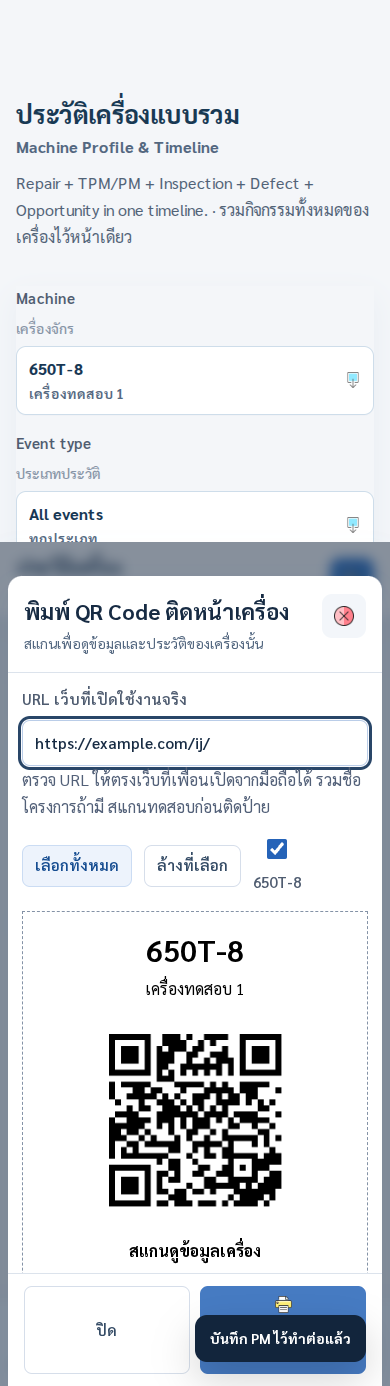
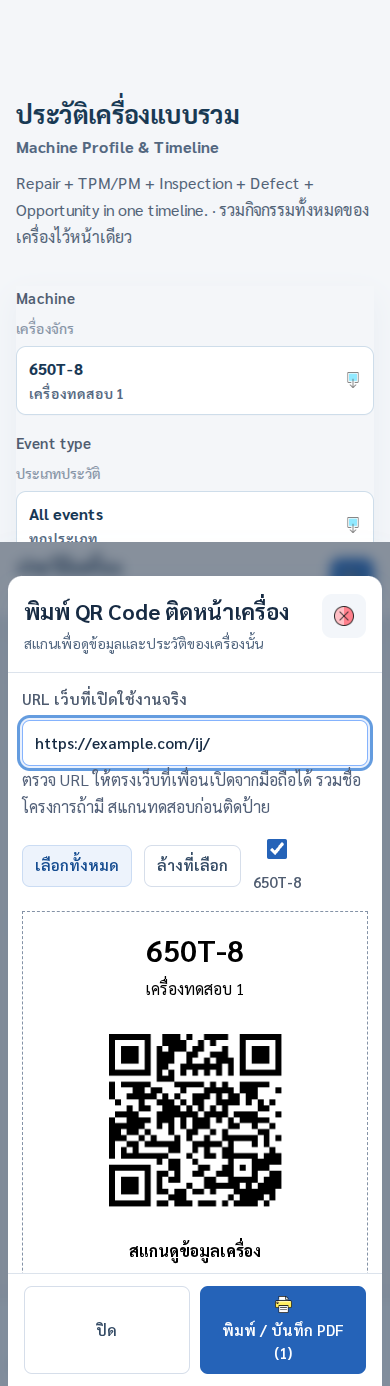
D

Changed region(s): [[0.0308, 0.4964, 0.9538, 0.5584], [0.4923, 0.9307, 0.9538, 0.9928]]

diff --git a/src/pages/FollowUp.jsx b/src/pages/FollowUp.jsx
@@ -1,60 +1,29 @@
 import React,{useEffect,useMemo,useState} from 'react'
-import { PackageOpen, CalendarClock, Wrench, Camera, UserRound } from '../icons.jsx'
-import { Button, Badge, Empty, PageIntro, SelectMenu } from '../components/UI.jsx'
+import {Search,PackageOpen,Wrench,CalendarClock,UserRound} from '../icons.jsx'
+import {Button,Badge,Empty,PageIntro,SelectMenu} from '../components/UI.jsx'
 import FollowUpModal from '../components/FollowUpModal.jsx'
 import {decodeActionResult} from '../lib/actionResult.js'
-import { fmtDate, rolePlanner, statusLabel } from '../lib/utils.js'
-
+import {FOLLOWUP_STATUS,followUpNext,isFollowUpOverdue} from '../lib/followUpView.js'
+import {fmtDate,isoDate,rolePlanner} from '../lib/utils.js'
 export default function FollowUp({profile,findings,technicians,onSaveAction,onCreateTPM,initialFinding,onConsumedInitial}){
-  const [status,setStatus]=useState('active')
-  const [priority,setPriority]=useState('')
-  const [selected,setSelected]=useState(null)
-
-  useEffect(()=>{
-    if(!initialFinding)return
-    const found=findings.find(f=>f.id===initialFinding)
-    if(found)setSelected(found)
-    onConsumedInitial?.()
-  },[initialFinding,findings])
-
-  const rows=useMemo(()=>findings
-    .filter(f=>status==='all'||(status==='active'?f.status!=='closed':f.status===status))
-    .filter(f=>!priority||f.priority===priority)
-    .sort((a,b)=>{
-      const rank={A:0,B:1,C:2};const pa=rank[a.priority]??9,pb=rank[b.priority]??9
-      if(pa!==pb)return pa-pb
-      const ta=a.target_date?new Date(a.target_date).getTime():Infinity,tb=b.target_date?new Date(b.target_date).getTime():Infinity
-      if(ta!==tb)return ta-tb
-      return new Date(b.created_at)-new Date(a.created_at)
-    }),[findings,status,priority])
-
-  return <>
-    <PageIntro title="Follow-up Action Tracker" th="ติดตามการแก้ไข" description="Follow-up is created from an existing defect. Assign owner, action, target date, spare/machine-stop requirements and verify before closing. · ใช้ Defect ที่พบแล้วมาวางแผนและติดตามจนยืนยันผล"><div className="followup-page-note"><b>Defect → Action → Verify → Close</b><small>ปัญหาที่พบ → วางแผนแก้ไข → ยืนยันผล → ปิดงาน</small></div></PageIntro>
-
-    <section className="compact-filter-bar"><SelectMenu value={status} onChange={setStatus} options={[{value:'active',label:'Active follow-up',sub:'งานที่ยังไม่ปิด'},{value:'all',label:'All',sub:'ทั้งหมด'},{value:'open',label:'Action Pending',sub:'ยังไม่ได้วางแผน'},{value:'waiting_spare',label:'Waiting Spare',sub:'รออะไหล่'},{value:'waiting_machine_stop',label:'Waiting Stop',sub:'รอหยุดเครื่อง'},{value:'in_progress',label:'In Progress',sub:'กำลังดำเนินการ'},{value:'verification',label:'Verification',sub:'รอยืนยันผล'},{value:'closed',label:'Closed',sub:'ปิดแล้ว'}]}/><SelectMenu value={priority} onChange={setPriority} options={[{value:'',label:'All priority',sub:'ทุกระดับ'},{value:'A',label:'A — Critical',sub:'วิกฤต / เร่งด่วน'},{value:'B',label:'B — Important',sub:'สำคัญ / ควรแก้เร็ว'},{value:'C',label:'C — Routine',sub:'ทั่วไป / วางแผนทำ'}]}/></section>
-
-    <div className="follow-grid action-tracker-grid">{rows.length?rows.map(f=>{
-      const evidence=decodeActionResult(f.verification_note||'')
-      const owner=(technicians||[]).find(t=>t.id===f.owner_profile_id)
-      const photos=f.attachments||[]
-      const actionPending=f.status==='open'&&!f.temporary_action&&!f.permanent_action
-      return <article className={`follow-card-pro follow-action-card priority-${f.priority}`} key={f.id}>
-        <header><div className="machine-code">{f.machines?.machine_no||'-'}</div><div className="defect-badges"><Badge tone={f.priority==='A'?'red':f.priority==='B'?'amber':'neutral'}>P-{f.priority}</Badge><Badge tone={f.status==='closed'?'green':f.status==='waiting_spare'?'amber':f.status==='verification'?'purple':'blue'}>{actionPending?'Action Pending · รอวางแผน':statusLabel(f.status)}</Badge></div></header>
-        <div className="follow-defect-title"><span>DEFECT / จุดผิดปกติ</span><h3>{f.finding}</h3>{f.risk&&<p>{f.risk}</p>}</div>
-        {photos.length>0&&<div className="follow-photo-strip"><Camera size={14}/>{photos.slice(0,3).map(p=><a key={p.id} href={p.signed_url||'#'} target="_blank" rel="noreferrer"><img src={p.signed_url} alt={p.file_name||'Defect evidence'}/></a>)}<small>{photos.length} photo(s)</small></div>}
-        <div className="follow-meta follow-meta-v12">
-          <span><UserRound size={15}/>Owner <b>{owner?.full_name||'Not assigned · ยังไม่มอบหมาย'}</b></span>
-          <span><CalendarClock size={15}/>Target <b>{fmtDate(f.target_date)}</b></span>
-          <span><PackageOpen size={15}/>Spare <b>{f.spare_required?'Required · ต้องใช้':'No · ไม่ใช้'}</b></span>
-          <span><Wrench size={15}/>Stop <b>{f.need_machine_stop?'Required · ต้องหยุด':'No · ไม่ต้องหยุด'}</b></span>
-        </div>
-        {(f.temporary_action||f.permanent_action)&&<div className="follow-action-summary">{f.temporary_action&&<div><span>Temporary / ชั่วคราว</span><p>{f.temporary_action}</p></div>}{f.permanent_action&&<div><span>Planned action / งานที่จะทำ</span><p>{f.permanent_action}</p></div>}</div>}
-        {evidence.work_result&&<div className="verification-box"><b>สิ่งที่ทำจริง / Work result</b><p>{evidence.work_result}</p></div>}
-        {evidence.verification_note&&<div className="verification-box"><b>Verification / ผลยืนยัน</b><p>{evidence.verification_note}</p></div>}
-        {rolePlanner(profile.role)&&<footer><Button size="sm" icon={Wrench} onClick={()=>setSelected(f)}>{actionPending?'Plan Action':'Update Action'} <small>{actionPending?'วางแผนแก้ไข':'อัปเดตงาน'}</small></Button>{f.status!=='closed'&&<Button size="sm" variant="ghost" onClick={()=>onCreateTPM(f)}>Create TPM <small>นำเข้าแผน</small></Button>}</footer>}
-      </article>
-    }):<Empty title="No follow-up" text="ไม่มีงานติดตามตามเงื่อนไข"/>}</div>
-
-    <FollowUpModal open={!!selected} onClose={()=>setSelected(null)} finding={selected} technicians={technicians} onSave={onSaveAction}/>
-  </>
+ const [status,setStatus]=useState('active'),[priority,setPriority]=useState(''),[q,setQ]=useState(''),[selected,setSelected]=useState(null)
+ const today=isoDate()
+ useEffect(()=>{if(!initialFinding)return;const found=findings.find(f=>f.id===initialFinding);if(found)setSelected(found);onConsumedInitial?.()},[initialFinding,findings])
+ const ownerName=f=>(technicians||[]).find(t=>t.id===f.owner_profile_id)?.full_name||'ยังไม่มอบหมาย'
+ const rows=useMemo(()=>findings.filter(f=>status==='all'||(status==='active'?f.status!=='closed':status==='overdue'?isFollowUpOverdue(f,today):f.status===status)).filter(f=>!priority||f.priority===priority).filter(f=>!q||`${f.machines?.machine_no||''} ${f.finding} ${ownerName(f)} ${f.permanent_action||''}`.toLowerCase().includes(q.trim().toLowerCase())).sort((a,b)=>Number(isFollowUpOverdue(b,today))-Number(isFollowUpOverdue(a,today))||({A:0,B:1,C:2}[a.priority]??9)-({A:0,B:1,C:2}[b.priority]??9)||(a.target_date||'9999').localeCompare(b.target_date||'9999')),[findings,status,priority,q,technicians,today])
+ const stats=[{id:'active',label:'งานค้าง',count:findings.filter(f=>f.status!=='closed').length},{id:'overdue',label:'เกินกำหนด',count:findings.filter(f=>isFollowUpOverdue(f,today)).length},{id:'verification',label:'รอตรวจยืนยัน',count:findings.filter(f=>f.status==='verification').length},{id:'closed',label:'ปิดงานแล้ว',count:findings.filter(f=>f.status==='closed').length}]
+ return <><PageIntro title="Follow-up" th="ติดตามการแก้ไข" description="เลือกปัญหา → วางแผนแก้ไข → บันทึกผลจริง → ตรวจยืนยันและปิดงาน"/>
+ <section className="followup-overview" aria-label="สรุปงานติดตาม">{stats.map(s=><button key={s.id} className={`followup-count ${status===s.id?'active':''} ${s.id==='overdue'&&s.count?'urgent':''}`} aria-pressed={status===s.id} onClick={()=>setStatus(s.id)}><span>{s.label}</span><strong>{s.count}</strong><small>กดดูรายการ</small></button>)}</section>
+ <section className="followup-filters"><div className="search-box"><Search size={18}/><input aria-label="ค้นหางานติดตาม" value={q} onChange={e=>setQ(e.target.value)} placeholder="ค้นหาเครื่อง ปัญหา หรือผู้รับผิดชอบ"/></div><label>สถานะ<SelectMenu value={status} onChange={setStatus} options={[{value:'active',label:'งานที่ยังไม่ปิด'},{value:'all',label:'ทุกงาน'},{value:'overdue',label:'เกินกำหนด'},...Object.entries(FOLLOWUP_STATUS).map(([value,label])=>({value,label}))]}/></label><label>ความสำคัญ<SelectMenu value={priority} onChange={setPriority} options={[{value:'',label:'ทุกระดับ'},{value:'A',label:'A · เร่งด่วน'},{value:'B',label:'B · สำคัญ'},{value:'C',label:'C · ทั่วไป'}]}/></label></section>
+ <div className="followup-list-heading"><span>แสดง {rows.length} งาน</span>{(q||priority||status!=='active')&&<Button size="sm" variant="ghost" onClick={()=>{setQ('');setPriority('');setStatus('active')}}>ล้างตัวกรอง</Button>}</div>
+ <div className="follow-grid action-tracker-grid">{rows.length?rows.map(f=>{const evidence=decodeActionResult(f.verification_note||''),closed=f.status==='closed',overdue=isFollowUpOverdue(f,today),photos=f.attachments||[];return <article className={`follow-card-pro follow-action-card followup-compact ${closed?'is-closed':''} ${overdue?'is-overdue':''}`} key={f.id}>
+ <header><span className="machine-code">{f.machines?.machine_no||'ไม่ระบุเครื่อง'}</span><div className="defect-badges"><Badge tone={f.priority==='A'?'red':f.priority==='B'?'amber':'neutral'}>{f.priority||'—'}</Badge><Badge tone={closed?'green':f.status==='verification'?'purple':String(f.status).startsWith('waiting')?'amber':'blue'}>{FOLLOWUP_STATUS[f.status]||f.status}</Badge></div></header>
+ <div className="followup-problem"><h3>{f.finding}</h3>{f.risk&&<p>{f.risk}</p>}</div>
+ <div className="followup-owner-date"><div><UserRound size={16}/><span>ผู้รับผิดชอบ<b>{ownerName(f)}</b></span></div><div className={overdue?'overdue-date':''}><CalendarClock size={16}/><span>{closed?'วันที่กำหนดเดิม':'กำหนดเสร็จ'}<b>{f.target_date?fmtDate(f.target_date):'ยังไม่กำหนด'}{overdue&&<em>เกินกำหนด</em>}</b></span></div></div>
+ <div className="followup-next"><span>{closed?'ผลการติดตาม':'ทำอะไรต่อ'}</span><b>{followUpNext(f)}</b></div>
+ {(f.spare_required||f.need_machine_stop)&&<div className="followup-requirements">{f.spare_required&&<span><PackageOpen size={15}/>ต้องใช้อะไหล่</span>}{f.need_machine_stop&&<span><Wrench size={15}/>ต้องหยุดเครื่อง</span>}</div>}
+ <details className="followup-details"><summary>รายละเอียดแผนและผล{photos.length>0?` · ${photos.length} รูป`:''}</summary><dl>{f.finding?.length>120&&<><dt>ปัญหาที่พบ (ข้อความเต็ม)</dt><dd>{f.finding}</dd></>}{f.permanent_action&&<><dt>แผนแก้ไข</dt><dd>{f.permanent_action}</dd></>}{f.temporary_action&&<><dt>ควบคุมปัญหาชั่วคราว</dt><dd>{f.temporary_action}</dd></>}{evidence.work_result&&<><dt>สิ่งที่ทำจริง</dt><dd>{evidence.work_result}</dd></>}{evidence.verification_note&&<><dt>ผลตรวจยืนยัน</dt><dd>{evidence.verification_note}</dd></>}{!f.permanent_action&&!evidence.work_result&&<dd>ยังไม่มีแผนหรือผลดำเนินการ</dd>}</dl>{photos.length>0&&<div className="follow-photo-strip">{photos.map(p=><a key={p.id} href={p.signed_url||'#'} target="_blank" rel="noreferrer"><img src={p.signed_url} alt={p.file_name||'รูปจุดผิดปกติ'}/></a>)}</div>}</details>
+ {rolePlanner(profile.role)&&<footer><Button icon={Wrench} variant={closed?'soft':'primary'} onClick={()=>setSelected(f)}>{closed?'ดูรายละเอียด':f.status==='open'?'วางแผนแก้ไข':f.status==='verification'?'ตรวจยืนยัน / ปิดงาน':'บันทึกความคืบหน้า'}</Button>{!closed&&<Button variant="ghost" onClick={()=>onCreateTPM(f)}>นำเข้าแผน TPM</Button>}</footer>}
+ </article>}):<Empty title="ไม่มีงานตามตัวกรองนี้" text="ลองค้นหาใหม่ หรือเลือกทุกงานเพื่อดูประวัติที่ปิดแล้ว"/>}</div>
+ <FollowUpModal open={!!selected} onClose={()=>setSelected(null)} finding={selected} technicians={technicians} onSave={onSaveAction}/></>
 }

diff --git a/src/components/FollowUpModal.jsx b/src/components/FollowUpModal.jsx
@@ -36,35 +36,22 @@ export default function FollowUpModal({open,onClose,finding,technicians,onSave})
 
   if(!finding)return null
   const photos=finding.attachments||[]
-  return <Modal open={open} busy={saving} onClose={onClose} wide eyebrow="ACTION TRACKER" title="Follow-up Action" subtitle="วางแผนและติดตามการแก้ไข" footer={<><Button disabled={saving} variant="ghost" onClick={onClose}>Cancel · ยกเลิก</Button><Button loading={saving} icon={CheckCircle2} onClick={submit}>Save Action <small>บันทึกงานติดตาม</small></Button></>}>
-    <FormError message={error}/>
-    <div className="workflow-help">1. กำหนดวิธีแก้ไขและผู้รับผิดชอบ → 2. บันทึกสิ่งที่ทำจริง → 3. ตรวจยืนยันและปิดงาน<br/>เลือกสถานะอย่างเดียวไม่ได้แปลว่าแก้ปัญหาแล้ว</div>
-    <section className={`follow-source-card priority-${finding.priority||'B'}`}>
-      <div className="follow-source-top"><span className="machine-code">{finding.machines?.machine_no||'-'}</span><span className={`priority priority-${finding.priority||'B'}`}>P-{finding.priority||'B'}</span></div>
-      <h3>{finding.finding}</h3>
-      {finding.risk&&<p>{finding.risk}</p>}
-      {photos.length>0&&<div className="defect-photo-gallery compact">{photos.slice(0,4).map(p=><a key={p.id} href={p.signed_url||'#'} target="_blank" rel="noreferrer"><img src={p.signed_url} alt={p.file_name||'Defect evidence'}/></a>)}</div>}
-    </section>
-
+  return <Modal open={open} busy={saving} onClose={onClose} wide title={finding.status==='closed'?'รายละเอียดงานที่ปิดแล้ว':'อัปเดตงานติดตาม'} subtitle={finding.machines?.machine_no||'เครื่องจักร'} footer={<><Button disabled={saving} variant="ghost" onClick={onClose}>ยกเลิก</Button><Button loading={saving} icon={CheckCircle2} onClick={submit}>{form.status==='closed'?'ยืนยันและปิดงาน':'บันทึกความคืบหน้า'}</Button></>}>
+    <div className="followup-editor"><FormError message={error}/>
+    <section className="followup-source"><span className="machine-code">{finding.machines?.machine_no||'-'}</span><h3>{finding.finding}</h3>{finding.finding?.length>120&&<details><summary>อ่านปัญหาเต็ม</summary><p>{finding.finding}</p></details>}{finding.risk&&<p>{finding.risk}</p>}{photos.length>0&&<details><summary>ดูรูปหลักฐาน ({photos.length})</summary><div className="defect-photo-gallery compact">{photos.map(p=><a key={p.id} href={p.signed_url||'#'} target="_blank" rel="noreferrer"><img src={p.signed_url} alt={p.file_name||'รูปหลักฐาน'}/></a>)}</div></details>}</section>
+    <section className="followup-editor-section"><div className="followup-section-title"><span>1</span><div><h4>วางแผนแก้ไข</h4><p>ระบุคนรับผิดชอบ สิ่งที่จะทำ และวันกำหนด</p></div></div>
     <div className="form-grid follow-action-form">
-      <label>Status <small>สถานะงานติดตาม</small><SelectMenu value={form.status} onChange={v=>setForm({...form,status:v,spare_required:v==='waiting_spare'?true:form.spare_required,need_machine_stop:v==='waiting_machine_stop'?true:form.need_machine_stop})} options={[
-        {value:'open',label:'Action Pending',sub:'ยังไม่ได้วางแผนแก้ไข'},
-        {value:'waiting_spare',label:'Waiting Spare',sub:'รออะไหล่'},
-        {value:'waiting_machine_stop',label:'Waiting Machine Stop',sub:'รอหยุดเครื่อง'},
-        {value:'in_progress',label:'In Progress',sub:'กำลังดำเนินการ'},
-        {value:'verification',label:'Verification',sub:'รอยืนยันผลหลังแก้ไข'},
-        {value:'closed',label:'Closed',sub:'ยืนยันผลและปิดงาน'}
+      <label>สถานะงาน<SelectMenu value={form.status} onChange={v=>setForm({...form,status:v,spare_required:v==='waiting_spare'?true:form.spare_required,need_machine_stop:v==='waiting_machine_stop'?true:form.need_machine_stop})} options={[
+        {value:'open',label:'รอวางแผน'},{value:'waiting_spare',label:'รออะไหล่'},{value:'waiting_machine_stop',label:'รอหยุดเครื่อง'},{value:'in_progress',label:'กำลังแก้ไข'},{value:'verification',label:'รอตรวจยืนยัน'},{value:'closed',label:'ยืนยันผลและปิดงาน'}
       ]}/></label>
-      <label>Owner <small>ผู้รับผิดชอบ</small><SelectMenu searchable value={form.owner_profile_id} onChange={v=>setForm({...form,owner_profile_id:v})} options={[{value:'',label:'Not assigned',sub:'ยังไม่มอบหมาย'},...(technicians||[]).map(t=>({value:t.id,label:t.full_name||t.employee_code,sub:`${t.employee_code||'-'} · ${t.role||'Maintenance'}`}))]}/></label>
-      <label className="span-2">Temporary Action <small>การแก้ไขชั่วคราว / Containment</small><textarea rows="3" value={form.temporary_action} onChange={e=>setForm({...form,temporary_action:e.target.value})} placeholder="Immediate action to control risk / วิธีควบคุมปัญหาชั่วคราว"/></label>
-      <label className="span-2">Planned Action <small>วิธีแก้ไข / งานที่จะทำ</small><textarea rows="3" value={form.permanent_action} onChange={e=>setForm({...form,permanent_action:e.target.value})} placeholder="Permanent corrective action / วิธีแก้ไขถาวร"/></label>
-      <label className="span-2">Work Result <small>สิ่งที่ทำจริง / ผลดำเนินการ</small><textarea rows="3" value={form.work_result||''} onChange={e=>setForm({...form,work_result:e.target.value})} placeholder="ทำอะไร เมื่อไหร่ ผลหลังทำเป็นอย่างไร (กรอกเมื่อได้ทำงานจริงแล้ว)"/></label>
-      <label>Target Date <small>วันที่เป้าหมาย</small><input type="date" value={form.target_date} onChange={e=>setForm({...form,target_date:e.target.value})}/></label>
-      <div className="follow-check-grid">
-        <label className="check-card compact-check"><input type="checkbox" checked={form.spare_required} onChange={e=>setForm({...form,spare_required:e.target.checked})}/><span><PackageOpen size={17}/><b>Spare required</b><small>ต้องใช้อะไหล่</small></span></label>
-        <label className="check-card compact-check"><input type="checkbox" checked={form.need_machine_stop} onChange={e=>setForm({...form,need_machine_stop:e.target.checked})}/><span><Wrench size={17}/><b>Machine stop</b><small>ต้องหยุดเครื่อง</small></span></label>
-      </div>
-      <label className="span-2">Verification Note <small>ผลตรวจยืนยันหลังแก้ไข</small><textarea rows="3" value={form.verification_note} onChange={e=>setForm({...form,verification_note:e.target.value})} placeholder="Confirm the defect is resolved / ยืนยันว่าปัญหาได้รับการแก้ไขแล้ว"/></label>
+      <label>ผู้รับผิดชอบ<SelectMenu searchable value={form.owner_profile_id} onChange={v=>setForm({...form,owner_profile_id:v})} options={[{value:'',label:'ยังไม่มอบหมาย'},...(technicians||[]).map(t=>({value:t.id,label:t.full_name||t.employee_code,sub:t.employee_code||''}))]}/></label>
+      <label className="span-2">งานที่จะทำ<textarea rows="2" value={form.permanent_action} onChange={e=>setForm({...form,permanent_action:e.target.value})} placeholder="เช่น เปลี่ยนสายลมที่รั่ว แล้วตรวจข้อต่อ"/></label>
+      <label>กำหนดเสร็จ<input type="date" value={form.target_date} onChange={e=>setForm({...form,target_date:e.target.value})}/></label>
+      <div className="followup-checkboxes"><label><input type="checkbox" checked={form.spare_required} onChange={e=>setForm({...form,spare_required:e.target.checked})}/>ต้องใช้อะไหล่</label><label><input type="checkbox" checked={form.need_machine_stop} onChange={e=>setForm({...form,need_machine_stop:e.target.checked})}/>ต้องหยุดเครื่อง</label></div>
+      <details className="span-2 followup-optional" open={!!form.temporary_action||undefined}><summary>การควบคุมปัญหาชั่วคราว (ถ้ามี)</summary><label>วิธีควบคุมชั่วคราว<textarea rows="2" value={form.temporary_action} onChange={e=>setForm({...form,temporary_action:e.target.value})} placeholder="บันทึกเฉพาะเมื่อมีวิธีควบคุมระหว่างรอแก้ไข"/></label></details>
+    </div></section>
+    <section className="followup-editor-section"><div className="followup-section-title"><span>2</span><div><h4>บันทึกสิ่งที่ทำจริง</h4><p>กรอกหลังเข้าทำงานแล้ว เพื่อแยกผลจริงออกจากแผน</p></div></div><label>สิ่งที่ทำจริง / ผลหลังทำ<textarea rows="3" value={form.work_result||''} onChange={e=>setForm({...form,work_result:e.target.value})} placeholder="ทำอะไร เมื่อไหร่ และได้ผลอย่างไร"/></label></section>
+    <section className="followup-editor-section"><div className="followup-section-title"><span>3</span><div><h4>ตรวจยืนยันและปิดงาน</h4><p>ปิดงานได้เมื่อมีผู้รับผิดชอบ ผลงานจริง และผลตรวจยืนยัน</p></div></div><label>ผลตรวจยืนยัน<textarea rows="2" value={form.verification_note} onChange={e=>setForm({...form,verification_note:e.target.value})} placeholder="เช่น ทดลองเดินเครื่องแล้ว ไม่พบลมรั่วซ้ำ"/></label>{form.status==='closed'&&<div className="followup-close-note">เมื่อบันทึก งานนี้จะย้ายไปหมวด “ปิดงานแล้ว”</div>}</section>
     </div>
   </Modal>
 }

diff --git a/src/design-system.css b/src/design-system.css
@@ -123,3 +123,13 @@ button:focus-visible,a:focus-visible,input:focus-visible,textarea:focus-visible,
 @media print{body:has(.machine-qr-sheet)>#root{display:none!important}body:has(.machine-qr-sheet) .modal-backdrop{position:static!important;display:block!important;padding:0!important;background:white!important}body:has(.machine-qr-sheet) .modal-card{width:100%!important;max-width:none!important;max-height:none!important;box-shadow:none!important;border:0!important;margin:0!important}body:has(.machine-qr-sheet) .modal-header,body:has(.machine-qr-sheet) .modal-footer,body:has(.machine-qr-sheet) .qr-settings{display:none!important}body:has(.machine-qr-sheet) .modal-body{padding:0!important;overflow:visible!important;max-height:none!important}body:has(.machine-qr-sheet) .machine-qr-sheet{display:grid!important;grid-template-columns:repeat(2,minmax(0,1fr));gap:8mm}.machine-qr-label{padding:6mm;break-inside:avoid}.machine-qr-label img{width:45mm;height:45mm}.machine-qr-label a{text-decoration:none}}
 
 @media print{body:has(.machine-qr-sheet) .modal-fields{min-height:0!important}body:has(.machine-qr-sheet) .machine-qr-label{break-inside:avoid-page}}
+/* v13.8 follow-up: summary first, evidence on demand. */
+.followup-overview{display:grid;grid-template-columns:repeat(4,minmax(0,1fr));gap:14px;margin:0 0 20px}.followup-count{font:inherit;display:grid;gap:8px;text-align:left;cursor:pointer;padding:18px 20px;background:#fff;color:#526078;border:1px solid var(--line);border-radius:12px}.followup-count strong{font-size:30px;color:#18374f;line-height:1.2}.followup-count small{font-size:14px}.followup-count.active{border-color:#347fd1;box-shadow:0 0 0 2px #e4f0ff}.followup-count.urgent strong{color:#b42318}.followup-filters{display:grid;grid-template-columns:minmax(200px,1.5fr) minmax(160px,1fr) minmax(160px,1fr);gap:16px;align-items:end;background:#fff;border:1px solid var(--line);border-radius:12px;padding:18px}.followup-filters label{display:grid;gap:8px;font-size:14px;font-weight:600;color:#526078}.followup-filters .search-box{min-width:0;min-height:48px}.followup-filters input{min-width:0;width:100%}.followup-list-heading{display:flex;justify-content:space-between;align-items:center;gap:12px;margin:16px 0;font-size:14px;color:#526078}.action-tracker-grid{align-items:start;gap:20px}.followup-compact{border-left:1px solid var(--line)!important;padding:22px;overflow-wrap:anywhere}.followup-compact.is-overdue{border-top:3px solid #de635a}.followup-compact.is-closed{border-top:3px solid #44a789}.followup-compact .machine-code{font-size:18px}.followup-compact .followup-problem{margin:16px 0}.followup-compact .followup-problem h3{margin:0;font-size:20px;line-height:1.5}.followup-compact .followup-problem p{margin:6px 0 0;font-size:15px!important}.followup-owner-date{display:grid;grid-template-columns:minmax(0,1fr) minmax(0,1fr);gap:16px;padding:14px 0;border-top:1px solid #eef2f6;border-bottom:1px solid #eef2f6}.followup-owner-date>div{display:flex;gap:8px;align-items:flex-start;min-width:0}.followup-owner-date span{display:grid;gap:5px;font-size:14px;color:#64748b}.followup-owner-date b{font-size:15px;color:#263e56}.followup-owner-date em{font-style:normal;display:block;color:#b42318;font-size:14px}.followup-next{padding:14px 16px;background:#f0f6fd;border-radius:8px;margin:16px 0;display:grid;gap:6px}.followup-next span{font-size:14px;color:#526078}.followup-next b{font-size:16px;line-height:1.5;color:#254d79}.is-closed .followup-next{background:#effaf5}.followup-requirements{display:flex;gap:8px;flex-wrap:wrap;margin-bottom:14px}.followup-requirements span{display:flex;align-items:center;gap:6px;background:#fff7e9;color:#8c5c16;border-radius:6px;padding:6px 9px;font-size:14px}.followup-details summary{cursor:pointer;font-size:14px;color:#406384;padding:8px 0;min-height:40px}.followup-details dl{margin:10px 0}.followup-details dt{font-size:14px;color:#64748b;font-weight:600;margin-top:12px}.followup-details dd{margin:4px 0 0;font-size:16px;white-space:pre-wrap;line-height:1.65;color:#263e56}.followup-details .follow-photo-strip{flex-wrap:wrap}.followup-compact footer{border-top:1px solid #eef2f6;padding-top:16px;margin-top:10px}.followup-compact.is-closed footer{grid-template-columns:1fr}.followup-editor{display:grid;gap:18px}.followup-source{background:#f6f9fc;border:1px solid #e2eaf3;border-radius:10px;padding:16px}.followup-source h3{margin:12px 0 0;font-size:18px}.followup-source p{margin:6px 0;color:#526078}.followup-source summary{cursor:pointer;font-size:14px;margin-top:12px}.followup-editor-section{border:1px solid var(--line);padding:20px;border-radius:12px;min-width:0}.followup-section-title{display:flex;gap:12px;align-items:flex-start;margin-bottom:16px}.followup-section-title>span{flex:0 0 32px;height:32px;display:grid;place-items:center;background:#eaf3ff;color:#2564a5;border-radius:50%;font-weight:700}.followup-section-title h4{font-size:18px;margin:0;color:#263e56}.followup-section-title p{font-size:14px;color:#64748b;line-height:1.6;margin:4px 0 0}.followup-editor-section label{display:grid;gap:8px;font-size:15px;font-weight:600;color:#3a536d}.followup-editor-section textarea{font-weight:400}.followup-checkboxes{display:flex;flex-direction:column;justify-content:center;gap:12px}.followup-checkboxes label{display:flex;align-items:center;gap:8px;font-weight:400}.followup-checkboxes input[type=checkbox]{width:20px;height:20px}.followup-optional summary{cursor:pointer;font-size:14px;color:#526078;padding:8px 0}.followup-optional label{margin-top:8px}.followup-close-note{margin-top:12px;font-size:14px;padding:12px;background:#eaf8f0;border-radius:8px;color:#24774b}
+/* Two lines must fit inside the view switch, at every viewport. */
+.maintenance-calendar-toolbar .calendar-view-switch{height:auto;min-height:64px;align-items:stretch;padding:4px;box-sizing:border-box;gap:2px}.maintenance-calendar-toolbar .calendar-view-switch button{height:auto;min-height:54px;display:flex;flex-direction:column;align-items:center;justify-content:center;gap:2px;line-height:1.4;padding:7px 14px;min-width:0}.calendar-view-switch button small{line-height:1.4;margin:0}.plan-group-header .grow,.plan-name-row>div,.job-row-pro .grow{min-width:0}.plan-name-row h3,.plan-meta span,.job-title-line h4,.job-row-pro p,.job-result span{overflow-wrap:anywhere}.approval-pills,.job-title-line,.plan-meta{flex-wrap:wrap}.job-title-line h4{min-width:0}.calendar-legend .sunday-note{white-space:normal;line-height:1.5}.group-progress{flex-shrink:0}
+@media(max-width:900px){.followup-filters{grid-template-columns:1fr 1fr}.followup-filters .search-box{grid-column:1/-1}.action-tracker-grid{grid-template-columns:1fr}}
+@media(max-width:600px){.followup-overview{grid-template-columns:1fr 1fr;gap:10px}.followup-count{padding:14px}.followup-count strong{font-size:26px}.followup-filters{grid-template-columns:1fr;padding:14px}.followup-compact{padding:16px}.followup-owner-date{gap:12px}.followup-compact footer{grid-template-columns:1fr!important}.followup-editor-section{padding:14px}.followup-section-title h4{font-size:17px}.followup-editor .form-grid{grid-template-columns:1fr}.followup-editor .span-2{grid-column:1/-1}.maintenance-calendar-toolbar .calendar-view-switch{width:100%}.maintenance-calendar-toolbar .calendar-view-switch button{flex:1;padding:7px 8px}.plan-group-header{flex-wrap:wrap}.plan-group-header .grow{flex-basis:calc(100% - 70px)}}
+
+.followup-filters .search-box{display:flex;align-items:center;gap:10px}.followup-filters .search-box>.streamline-icon{flex-shrink:0}.followup-filters .search-box input{flex:1}.followup-problem h3,.followup-source h3{display:-webkit-box;-webkit-box-orient:vertical;-webkit-line-clamp:3;overflow:hidden}.followup-source p{overflow-wrap:anywhere;white-space:pre-wrap}
+
+.inspection-item-title{display:block;line-height:1.6;overflow-wrap:anywhere}.inspection-method{line-height:1.65;overflow-wrap:anywhere}.inspection-result-list header>b{min-width:0;overflow-wrap:anywhere}

diff --git a/src/pages/Inspection.jsx b/src/pages/Inspection.jsx
@@ -1,3 +1,4 @@
+import {inspectionThai} from '../lib/inspectionThai.js'
 import PhotoActions from '../components/PhotoActions.jsx'
 import React,{useEffect,useMemo,useState} from 'react'
 import { Plus, AlertTriangle, CheckCircle2, Eye, Save, Camera, Trash2 } from '../icons.jsx'
@@ -105,7 +106,7 @@ export default function Inspection({machines,inspections,templates,templateItems
     <Modal open={open} busy={saving} onClose={closeModal} wide eyebrow="CONDITION BASED MAINTENANCE" title="Machine Condition Inspection" subtitle="ตรวจสภาพเครื่อง" footer={<><span className="muted">ตรวจแล้ว {rows.filter(r=>r.result_status).length}/{rows.length} ข้อ · เลือกผลให้ครบก่อนบันทึก</span><Button loading={saving} icon={Save} onClick={submit}>Save Inspection <small>บันทึก</small></Button></>}>
       <FormError message={error}/>
       <div className="workflow-help">เลือกเครื่อง → ตรวจทีละข้อและเลือกผล → บันทึกผลตรวจ</div>
-      <div className="inspection-form-head"><label>Machine <small>เครื่องจักร</small><SelectMenu searchable value={machine} onChange={setMachine} options={[{value:'',label:'Select machine',sub:'เลือกเครื่อง'},...machines.map(m=>({value:m.id,label:m.machine_no,sub:m.machine_name||'เครื่องจักร'}))]}/></label><label>Checklist <small>รายการตรวจ</small><SelectMenu value={template} onChange={changeTemplate} options={activeTemplates.map(t=>({value:t.id,label:t.name,sub:`Every ${t.frequency_days||'-'} days · รอบการตรวจ`}))}/></label></div>
+      <div className="inspection-form-head"><label>Machine <small>เครื่องจักร</small><SelectMenu searchable value={machine} onChange={setMachine} options={[{value:'',label:'Select machine',sub:'เลือกเครื่อง'},...machines.map(m=>({value:m.id,label:m.machine_no,sub:m.machine_name||'เครื่องจักร'}))]}/></label><label>Checklist <small>รายการตรวจ</small><SelectMenu value={template} onChange={changeTemplate} options={activeTemplates.map(t=>({value:t.id,label:t.name,sub:`ทุก ${t.frequency_days||'-'} วัน · รอบการตรวจ`}))}/></label></div>
       {template===FALLBACK_TEMPLATE.id&&<details className="inspection-checklist-info"><summary>รายการตรวจพื้นฐาน IJ · 12 จุดตรวจ</summary><p>ตรวจจากภายนอกระหว่างเดินเครื่อง งานซ่อมและทดสอบระบบนิรภัยให้ทำตามขั้นตอนหยุดเครื่องที่อนุมัติ</p></details>}
 
       <div className="inspection-checklist">
@@ -116,9 +117,9 @@ export default function Inspection({machines,inspections,templates,templateItems
           return <div className={`inspection-check-row state-${r.result_status}`} key={r.key||r.template_item_id||idx}>
             <span className="check-index">{idx+1}</span>
             <div>
-              <b>{r.item_name}</b>
-              {r.inspection_method&&<p className="inspection-method">{r.inspection_method}</p>}
-              <small>Criticality {r.criticality} · {r.criticality==='A'?'Critical / วิกฤต':r.criticality==='B'?'Important / สำคัญ':'Routine / ทั่วไป'}</small>
+              <b className="inspection-item-title">{inspectionThai(r.item_name)}</b>
+              {r.inspection_method&&<p className="inspection-method">{inspectionThai(r.inspection_method,'method')}</p>}
+              <small>ความสำคัญ {r.criticality} · {r.criticality==='A'?'วิกฤต / Critical':r.criticality==='B'?'สำคัญ / Important':'ทั่วไป / Routine'}</small>
               {photoRequired&&<small className="photo-required">Photo required when abnormal · ต้องมีรูปเมื่อผิดปกติ</small>}
             </div>
             <SelectMenu compact value={r.result_status} onChange={v=>update(idx,{result_status:v})} options={[{value:'',label:'ยังไม่ได้ตรวจ',sub:'เลือกผลหลังตรวจจริง'},{value:'normal',label:'Normal',sub:'ปกติ'},{value:'watch',label:'Watch',sub:'เฝ้าระวัง'},{value:'abnormal',label:'Abnormal',sub:'ผิดปกติ'},{value:'na',label:'N/A',sub:'ไม่เกี่ยวข้อง'}]}/>

diff --git a/src/lib/inspectionThai.js b/src/lib/inspectionThai.js
@@ -1,0 +1,35 @@
+// Display translations only: keep template IDs and recorded source labels unchanged.
+export const INSPECTION_POINTS_TH={
+ 'Emergency Stop / Safety Circuit':'ปุ่มหยุดฉุกเฉิน / วงจรนิรภัย',
+ 'Door Safety Limit Switch':'ลิมิตสวิตช์นิรภัยประตู',
+ 'Pneumatic Tube / Air Leak':'สายลม / จุดลมรั่ว',
+ 'Air Filter / Water Drain':'ชุดกรองลม / การระบายน้ำ',
+ 'Hydraulic Oil Leak / Hose':'จุดน้ำมันไฮดรอลิกรั่ว / สายไฮดรอลิก',
+ 'Hydraulic Oil Level':'ระดับน้ำมันไฮดรอลิก',
+ 'Hydraulic Pump / Coupling':'ปั๊มไฮดรอลิก / คัปปลิง',
+ 'Electrical Cabinet Cleanliness':'ความสะอาดตู้ไฟฟ้า',
+ 'Electrical Wiring / Terminal':'สายไฟ / จุดต่อสายไฟ',
+ 'Robot / Handling System':'หุ่นยนต์ / ระบบหยิบจับชิ้นงาน',
+ 'Cooling Water / Leakage':'ระบบน้ำหล่อเย็น / จุดรั่ว',
+ 'Machine Cleanliness / Abnormal Condition':'ความสะอาดเครื่อง / สภาพผิดปกติ'
+}
+export const INSPECTION_METHODS_TH={
+ 'Functional check':'ตรวจสอบการทำงาน',
+ 'Functional + visual check':'ตรวจสอบการทำงานและสภาพภายนอก',
+ 'Visual + leak check':'ตรวจสภาพภายนอกและจุดรั่ว',
+ 'Visual + drain check':'ตรวจสภาพภายนอกและการระบายน้ำ',
+ 'Visual inspection':'ตรวจสภาพด้วยสายตา',
+ 'Level check':'ตรวจสอบระดับ',
+ 'Noise / vibration / visual':'ตรวจเสียง การสั่น และสภาพภายนอก',
+ 'Visual / loose connection':'ตรวจสภาพภายนอกและจุดต่อที่หลวม',
+ 'Belt / gripper / abnormal sound':'ตรวจสายพาน ชุดจับชิ้นงาน และเสียงผิดปกติ',
+ '5S + general inspection':'ตรวจ 5ส และสภาพทั่วไป'
+}
+const normalize=s=>s.trim().replace(/\s+/g,' ').toLowerCase()
+export function inspectionThai(text='',kind='point'){
+ const source=String(text||'')
+ if(!source||/[\u0e00-\u0e7f]/.test(source))return source
+ const dict=kind==='method'?INSPECTION_METHODS_TH:INSPECTION_POINTS_TH
+ const match=Object.keys(dict).find(k=>normalize(k)===normalize(source))
+ return match?`${dict[match]} / ${source}`:source
+}

diff --git a/src/components/InspectionDetailModal.jsx b/src/components/InspectionDetailModal.jsx
@@ -1,3 +1,4 @@
+import {inspectionThai} from '../lib/inspectionThai.js'
 import React,{useEffect,useState} from 'react'
 import {Modal,Badge,FormError,Skeleton,Empty} from './UI.jsx'
 import {supabase} from '../lib/supabase.js'
@@ -30,7 +31,7 @@ export default function InspectionDetailModal({inspection,onClose}){
  return <Modal open onClose={onClose} wide title={`ผลตรวจ · ${inspection.machines?.machine_no||''}`} subtitle={`${fmtDateTime(inspection.completed_at||inspection.created_at)} · ${inspection.inspector_name_snapshot||'-'}`}>
   <FormError message={error}/>
   {loading?<Skeleton rows={4}/>:rows.length?<div className="inspection-result-list">{rows.map((r,i)=><article key={r.id}>
-   <header><b>{i+1}. {r.item_name_snapshot}</b><Badge tone={r.result_status==='abnormal'?'red':r.result_status==='watch'?'amber':r.result_status==='na'?'neutral':'green'}>{statusLabel(r.result_status)}</Badge></header>
+   <header><b>{i+1}. {inspectionThai(r.item_name_snapshot)}</b><Badge tone={r.result_status==='abnormal'?'red':r.result_status==='watch'?'amber':r.result_status==='na'?'neutral':'green'}>{statusLabel(r.result_status)}</Badge></header>
    {r.numeric_value!=null&&<p>ค่าที่วัด: {r.numeric_value} {r.unit||''}</p>}{r.text_value&&<p>{r.text_value}</p>}{r.note&&<p>สิ่งที่พบ: {r.note}</p>}
    <div className="defect-photo-gallery">{photos.filter(p=>p.result_id===r.id&&p.public_url).map(p=><a key={p.id} href={p.public_url} target="_blank" rel="noreferrer"><img src={p.public_url} alt={p.file_name||'รูปประกอบผลตรวจ'}/></a>)}</div>
   </article>)}</div>:<Empty title="ไม่มีรายละเอียดผลตรวจ" text="ตรวจสอบว่ารอบนี้มีผลตรวจบันทึกครบหรือไม่"/>}

diff --git a/src/components/Layout.jsx b/src/components/Layout.jsx
@@ -72,7 +72,7 @@ export default function Layout({ page, setPage, profile, onLogout, onRefresh, on
         </section>)}
       </nav>
       <div className="side-bottom">
-        <div className="system-version-card"><span>System</span><b>IJ-MNT v13.7</b><small>Direct Access · No Login</small></div>
+        <div className="system-version-card"><span>System</span><b>IJ-MNT v13.9</b><small>Direct Access · No Login</small></div>
         <div className="user-card"><div className="avatar">{profile?.full_name?.slice(0,1)||'U'}</div><div><b>{profile?.full_name}</b><span>{profile?.employee_code} · {profile?.role}</span></div></div>
       </div>
     </aside>
@@ -94,7 +94,7 @@ export default function Layout({ page, setPage, profile, onLogout, onRefresh, on
         <div><span className="status-dot"/><b>{dataErrors.length?'ข้อมูลโหลดไม่ครบ':'Database connected'}</b><small>MPR Maintenance · ฐานข้อมูลเดียวกัน</small></div>
         <div><CheckCircle2 size={15}/><b>Direct access</b><small>เปิดใช้งานทันที · ไม่ต้อง Login</small></div>
         <div><RefreshCcw size={14}/><b>Last sync {lastSync}</b><small>อัปเดตข้อมูลล่าสุด</small></div>
-        <div className="statusbar-version"><b>v13.7</b><small>No Login Mode</small></div>
+        <div className="statusbar-version"><b>v13.9</b><small>No Login Mode</small></div>
       </div>
 
       <div className="page-wrap enterprise-page-wrap">{children}</div>

diff --git a/src/lib/followUpView.js b/src/lib/followUpView.js
@@ -1,0 +1,13 @@
+import {decodeActionResult} from './actionResult.js'
+export const FOLLOWUP_STATUS={open:'รอวางแผน',waiting_spare:'รออะไหล่',waiting_machine_stop:'รอหยุดเครื่อง',in_progress:'กำลังแก้ไข',verification:'รอตรวจยืนยัน',closed:'ปิดงานแล้ว'}
+export const isFollowUpOverdue=(f,today)=>f.status!=='closed'&&!!f.target_date&&f.target_date<today
+export function followUpNext(f){
+ if(f.status==='closed')return 'แก้ไขและตรวจยืนยันแล้ว'
+ if(f.status==='waiting_spare')return 'ติดตามอะไหล่ แล้วนัดวันเข้าทำ'
+ if(f.status==='waiting_machine_stop')return 'ยืนยันช่วงหยุดเครื่องกับฝ่ายผลิต'
+ if(f.status==='verification')return 'ตรวจผลหลังแก้ไข แล้วบันทึกยืนยัน'
+ if(!f.owner_profile_id)return 'มอบหมายผู้รับผิดชอบ'
+ if(!f.permanent_action?.trim())return 'ระบุวิธีแก้ไขและวันกำหนด'
+ if(!decodeActionResult(f.verification_note||'').work_result)return 'ทำตามแผน แล้วบันทึกผลที่ทำจริง'
+ return 'ตรวจผลหลังแก้ไข ก่อนปิดงาน'
+}

diff --git a/README.md b/README.md
@@ -1,4 +1,4 @@
-# IJ Maintenance v13.7 — มาตรฐาน PM และหน้าจอใหม่
+# IJ Maintenance v13.9 — มาตรฐาน PM และหน้าจอใหม่
 
 PM มีใบมาตรฐาน ตารางรอบงาน และประวัติผลรายข้อของตัวเอง มีแม่แบบ 5 รอบ: สัปดาห์ เดือน 3 เดือน 6 เดือน และปี เก็บ revision ของมาตรฐานไว้ในใบงาน และสร้างรอบถัดไปได้เมื่อปิด PM
 
@@ -41,3 +41,13 @@ PM มีใบมาตรฐาน ตารางรอบงาน และ
 เปิดศูนย์ข้อมูลเครื่องจักร > พิมพ์ QR ของแต่ละเครื่อง หรือพิมพ์เครื่องที่แสดง > ตรวจ URL เว็บจริง > เลือกเครื่อง > พิมพ์ / บันทึก PDF ป้ายมีเลขเครื่องและ QR ที่เปิด #history?machine=รหัสเครื่อง โดยตรง URL ต้องเข้าถึงได้จากมือถือและรวม path โครงการ GitHub Pages ถ้ามี ไม่ใช้ localhost สแกนทดสอบหนึ่งป้ายก่อนพิมพ์ทั้งหมด ฟังก์ชันสร้าง QR ทำงานในเว็บ ไม่ส่ง URL ไปบริการสร้าง QR ภายนอก
 
 ไฟล์นี้ยังต้องนำขึ้นโฮสต์เดิมก่อนใช้งานจริง ไม่ต้องเปลี่ยนฐานข้อมูลเพิ่มสำหรับรูปและ QR
+
+## งานติดตามและปฏิทิน TPM (v13.8)
+
+หน้างานติดตามแสดงสรุป 4 กลุ่ม กดดูงานค้าง/เกินกำหนด/รอตรวจยืนยัน/ปิดแล้ว ค้นหาเครื่อง ปัญหา หรือผู้รับผิดชอบได้ การ์ดแสดงสิ่งที่ต้องทำต่อ รายละเอียดแผน ผลจริง และรูปเปิดดูได้ด้วย “รายละเอียดแผนและผล” ฟอร์มแบ่ง 3 ส่วน วางแผน / สิ่งที่ทำจริง / ผลตรวจยืนยัน กรอกเฉพาะส่วนที่ถึงขั้นตอนแล้ว การปิดงานยังต้องมีผู้รับผิดชอบ วิธีแก้ไข ผลดำเนินการจริง และผลตรวจยืนยัน
+
+แก้ปุ่มเดือน/สัปดาห์/รายการใน TPM ให้ขยายตามความสูงข้อความสองบรรทัด รวมถึงการตัดบรรทัดชื่อแผนและงานยาว ไม่ต้องรัน SQL เพิ่มสำหรับ v13.8 ต้องนำไฟล์ขึ้นโฮสต์เดิมก่อนใช้งาน
+
+## ภาษาไทยรายการตรวจสภาพ (v13.9)
+
+เพิ่มคำแปลภาษาไทยคู่กับชื่ออังกฤษสำหรับจุดตรวจเดิมของ IJ ทั้ง 12 ข้อ และวิธีตรวจทั้ง 10 แบบ แสดงในฟอร์มตรวจและผลย้อนหลัง เปลี่ยนเฉพาะข้อความที่แสดง ไม่เปลี่ยนรหัส template/item หรือชื่อ snapshot ที่บันทึกเดิม ข้อความที่มีภาษาไทยอยู่แล้วไม่เติมซ้ำ ชื่อที่ยังไม่มีคำแปลในพจนานุกรมจะแสดงต้นฉบับ
